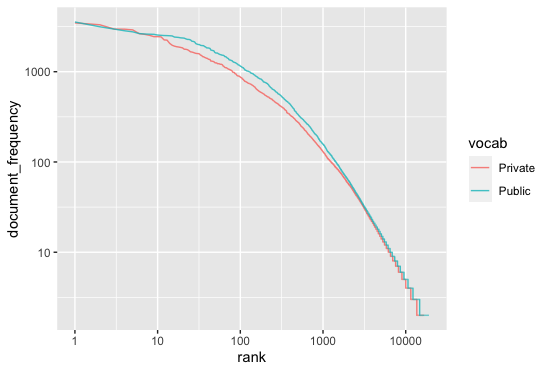
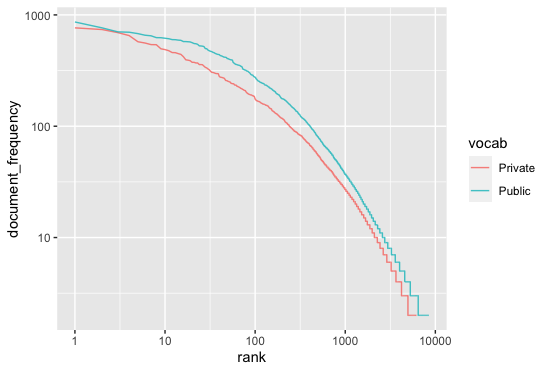
TM structure

diff --git a/NLP/vocab_comp.py b/NLP/vocab_comp.py
@@ -7,7 +7,7 @@
 # ---------------------------------- Imports --------------------------------- #
 import pandas as pdv
 from helper import *
-from sklearn.feature_extraction.text import TfidfVectorizer
+from sklearn.feature_extraction.text import TfidfVectorizer, CountVectorizer
 from sklearn.decomposition import LatentDirichletAllocation
 from gensim.models import CoherenceModel
 import matplotlib.pyplot as plt
@@ -25,7 +25,7 @@ warnings.filterwarnings("ignore", category=RuntimeWarning)
 PUBLIC_VOCAB_FILE = "public_vocab.csv"
 PRIVATE_VOCAB_FILE = "private_vocab.csv"
 WORDS_BY_EMPLOYER_MIN = 1
-SAMPLE_SIZE = 1000
+SAMPLE_SIZE = 5000
 
 # ---------------------------------- Methods --------------------------------- #
 def sample_first_n_ids(vocab):
@@ -62,67 +62,7 @@ def clean_vocab(vocab, employer_column):
     vocab = vocab.drop(columns=["index_saved"]).reset_index(drop=True)
 
     return vocab
-
-
-def calculate_perplexity_scores(X, min_topics, max_topics):
-    perplexity_scores = []
-    for num_topics in range(min_topics, max_topics + 1):
-        lda_model = LatentDirichletAllocation(n_components=num_topics, random_state=42)
-        lda_model.fit(X)
-        perplexity_scores.append(lda_model.perplexity(X))
-    return perplexity_scores
-
-
-# Function to convert TF-IDF matrix to Gensim Dictionary
-def convert_to_gensim_dict(df):
-    gensim_dict = Dictionary([df.columns])
-    return gensim_dict
-
-
-# Function to calculate coherence scores for a range of topics (k)
-def calculate_coherence_scores(X, min_topics, max_topics):
-    coherence_scores = []
     
-    for num_topics in range(min_topics, max_topics + 1):
-        lda_model = LatentDirichletAllocation(n_components=num_topics, random_state=42)
-        lda_model.fit(X)
-
-        # Convert TF-IDF matrix to Gensim Dictionary
-        gensim_dict = convert_to_gensim_dict(X)
-
-        # Extract topic words from the model
-        topics_words = []
-        for topic_idx, topic in enumerate(lda_model.components_):
-            topic_words = [gensim_dict[int(i)] for i in topic.argsort()[:-11:-1]]
-            topics_words.append(topic_words)
-
-        # Convert X to a list of documents
-        documents_list = [" ".join(map(str, row)) for row in X.astype(int)]
-
-        # Calculate coherence score
-        coherence_model_lda = CoherenceModel(topics=topics_words, texts=documents_list, dictionary=gensim_dict, coherence='c_v')
-        coherence_score = coherence_model_lda.get_coherence()
-
-        print(f"Number of Topics: {num_topics}, Coherence Score: {coherence_score}")
-        coherence_scores.append(coherence_score)
-
-    return coherence_scores
-
-
-
-# Function to find the elbow point and return the optimal number of topics
-def find_optimal_num_topics(scores, min_topics):
-    # Calculate the rate of change in perplexity scores
-    rate_of_change = [scores[i] - scores[i - 1] for i in range(1, len(scores))]
-
-    # Identify the index where the rate of change decreases significantly
-    elbow_point_index = rate_of_change.index(min(rate_of_change)) + 1  # Add 1 to get the index of the elbow point
-    
-    # Return the optimal number of topics
-    optimal_num_topics = min_topics + elbow_point_index
-    return optimal_num_topics
-
-
 # -------------------------------- Main script ------------------------------- #
 if __name__ == '__main__':
     # Public
@@ -137,71 +77,32 @@ if __name__ == '__main__':
     # Scale the TF-IDF matrix using MaxAbsScaler
     scaler = MaxAbsScaler()
     tfidf_matrix_scaled = scaler.fit_transform(tfidf_matrix)
-
-    # Set the maximum number of topics to consider
-    min_topics = 5
-    max_topics = 20
-
-    coherence_scores = calculate_coherence_scores(tfidf_matrix_scaled, min_topics, max_topics)
-
-    # Plot coherence scores
-    topics_range = range(min_topics, max_topics + 1)
-    plt.plot(topics_range, coherence_scores, marker='o')
-    plt.title('Coherence Scores for Different Number of Topics')
-    plt.xlabel('Number of Topics')
-    plt.ylabel('Coherence Score')
-    plt.show()
-
-    print(coherence_scores)
-    exit(0)
-
-    # Calculate perplexity scores for a range of topics
-    perplexity_scores = calculate_perplexity_scores(tfidf_matrix_scaled, min_topics, max_topics)
-    print(perplexity_scores)
-
-    # Plot the perplexity scores
-    plt.plot(range(min_topics, max_topics + 1), perplexity_scores, marker='o')
-    plt.title('Perplexity Scores for Different Number of Topics (k)')
-    plt.xlabel('Number of Topics (k)')
-    plt.ylabel('Perplexity Score')
-    plt.savefig('perplexity_plot.png')
-
-    # Find the optimal number of topics (k) based on the elbow point
-    optimal_num_topics = find_optimal_num_topics(perplexity_scores, min_topics)
-    print(f"Optimal Number of Topics (k): {optimal_num_topics}")
     
-    coherence_scores = calculate_coherence_scores(tfidf_matrix_scaled, min_topics, max_topics)
-    print(coherence_scores)
-    # Plot coherence scores
-    plt.plot(range(min_topics, max_topics + 1), coherence_scores, marker='o')
-    plt.title('Coherence Scores for Different Number of Topics')
-    plt.xlabel('Number of Topics')
-    plt.ylabel('Coherence Score')
-    plt.show()
-    exit(0)
-
-
+    count_vectorizer = CountVectorizer()
+    count_matrix = count_vectorizer.fit_transform(public_vocab_grouped['lemma'])
+    count_matrix_scaled = scaler.fit_transform(count_matrix)
+    
     # Fit LDA model with the chosen number of topics
-    num_topics = 11  # Adjust as needed
-    lda_model = LatentDirichletAllocation(n_components=num_topics, random_state=42)
+    num_topics = 30  # Adjust as needed
+    lda_model = LatentDirichletAllocation(n_components = num_topics, random_state=42)
+    # Assuming lda_model is your fitted LatentDirichletAllocation model
     lda_topic_matrix = lda_model.fit_transform(tfidf_matrix_scaled)
-
-    # Check the shape of your TF-IDF matrix
-    num_documents, num_features = tfidf_matrix.shape
-    print(f"Number of Documents: {num_documents}, Number of Features: {num_features}")
+    lda_model.components_ = lda_model.components_ / lda_model.components_.sum(axis=1)[:, np.newaxis]
 
     # Get feature names from TF-IDF vectorizer
     feature_names = np.array(tfidf_vectorizer.get_feature_names_out())
 
     # Display the top terms for each topic in the grid
-    fig, axes = plt.subplots(6, 3, figsize=(15, 15), sharex=True)  # Adjust the grid size based on your preference
+    fig, axes = plt.subplots(10, 3, figsize=(15, 15), sharex=True)  # Adjust the grid size based on your preference
 
     for topic_idx, ax in enumerate(axes.flatten()):
         if topic_idx < num_topics:
-            top_terms_idx = lda_model.components_[topic_idx].argsort()[:-10 - 1:-1]  # Display top 10 terms
-            top_terms = feature_names[top_terms_idx]
-        
-            ax.barh(range(len(top_terms)), lda_model.components_[topic_idx][top_terms_idx], align='center')
+            top_terms_idx = lda_model.components_[topic_idx].argsort()[::-1][:10]  # Display top 10 terms in descending order
+            sorted_indices = np.argsort(lda_model.components_[topic_idx])[::-1]
+
+            top_terms = feature_names[top_terms_idx][::-1]
+            
+            ax.barh(range(len(top_terms)), lda_model.components_[topic_idx][top_terms_idx][::-1], align='center')
             ax.set_yticks(range(len(top_terms)))
             ax.set_yticklabels(top_terms)
             ax.set_xlabel('Normalized TF-IDF Score')
@@ -214,15 +115,9 @@ if __name__ == '__main__':
         else:
             ax.axis('off')  # Turn off empty subplots
 
+
     plt.tight_layout()
     # Save the output to a PNG file
     plt.savefig('lda_topics_visualization_normalized.png')
-
-    '''
-    # Private
-    private_vocab = pd.read_csv(PRIVATE_VOCAB_FILE)
-    private_vocab = clean_vocab(private_vocab, "arbeitgeber")
-    private_vocab_reduced = private_vocab[["ID", "lemma"]]
-    '''
 
 
